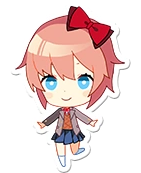
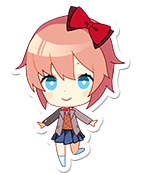
theme: take the sprites and the palette straight from ddlc.moe
The stickers in this repo are the site's own sticker_?.png. Three matched it
already; Yuri had been resampled down to 110x160 from 112x161, which is why she
read as the odd one out. All four are now the originals on the shared canvas.

Colours came from nowhere in particular before. The site's stylesheet and its
200x200 background tile give the whole set: white ground, #FFE5F4 dots at r=40,
#FFBDE1 divider, #BB5599 links and buttons with #DD77BB on hover, #222 text.
Only the two corruption colours stay invented — the site has no glitch state

diff --git a/README.ru.md b/README.ru.md
@@ -102,16 +102,18 @@ sudo ./install.sh
 | --- | --- | --- |
 | `font` | `Doki` | основной шрифт |
 | `iconFont` | `DepartureMono Nerd Font` | глифы кнопок питания |
-| `bgColor` | `#FFFCFE` | цвет фона |
-| `accentPink` / `deepPink` | `#FF80C0` / `#D667A0` | рамки и акценты |
-| `dotColor` | `#FFDCEE` | цвет кружочков |
+| `bgColor` | `#FFFFFF` | цвет фона |
+| `accentPink` / `deepPink` | `#DD77BB` / `#BB5599` | рамки и акценты |
+| `dotColor` | `#FFE5F4` | цвет кружочков |
 | `corruptDot` | `#FF1030` | цвет кружочков в пасхалке |
-| `dotSpacing` / `dotRadius` | `200` / `50` | шаг решётки и радиус кружка |
+| `dotSpacing` / `dotRadius` | `200` / `40` | шаг решётки и радиус кружка |
 | `scrollDuration` | `14000` | период дрейфа фона, мс |
-| `panelColor` / `panelBorder` | `#FFEBF4` / `#FFBDE1` | панель логина |
-| `okOutline` | `#BA5297` | обводка кнопки OK |
-| `textDark` / `errorRed` | `#4A2B3A` / `#D6244A` | текст и ошибки |
+| `panelColor` / `panelBorder` | `#FFFFFF` / `#FFBDE1` | панель логина |
+| `okOutline` | `#BB5599` | обводка кнопки OK |
+| `textDark` / `errorRed` | `#222222` / `#D6244A` | текст и ошибки |
 | `glitchRgbSplit` | `true` | выключить, если RGB-split глючит на конкретном железе |
+
+Всё, кроме двух цветов порчи, взято с [ddlc.moe](https://ddlc.moe/) — решётка кружков это фоновый тайл 200×200 с самого сайта, вплоть до радиуса
 
 На NixOS это задаётся опциями, а не правкой файла — модуль пересоберёт тему, подмешав их в `theme.conf`:
 

diff --git a/README.md b/README.md
@@ -102,16 +102,18 @@ Everything lives in the `[General]` block of `theme/theme.conf`, read from QML a
 | --- | --- | --- |
 | `font` | `Doki` | main font family |
 | `iconFont` | `DepartureMono Nerd Font` | glyphs on the power buttons |
-| `bgColor` | `#FFFCFE` | background |
-| `accentPink` / `deepPink` | `#FF80C0` / `#D667A0` | borders and accents |
-| `dotColor` | `#FFDCEE` | the dots |
+| `bgColor` | `#FFFFFF` | background |
+| `accentPink` / `deepPink` | `#DD77BB` / `#BB5599` | borders and accents |
+| `dotColor` | `#FFE5F4` | the dots |
 | `corruptDot` | `#FF1030` | the dots in easter-egg mode |
-| `dotSpacing` / `dotRadius` | `200` / `50` | grid step and dot radius |
+| `dotSpacing` / `dotRadius` | `200` / `40` | grid step and dot radius |
 | `scrollDuration` | `14000` | drift period of the background, ms |
-| `panelColor` / `panelBorder` | `#FFEBF4` / `#FFBDE1` | login panel |
-| `okOutline` | `#BA5297` | outline of the OK button |
-| `textDark` / `errorRed` | `#4A2B3A` / `#D6244A` | text and errors |
+| `panelColor` / `panelBorder` | `#FFFFFF` / `#FFBDE1` | login panel |
+| `okOutline` | `#BB5599` | outline of the OK button |
+| `textDark` / `errorRed` | `#222222` / `#D6244A` | text and errors |
 | `glitchRgbSplit` | `true` | turn off if RGB-split misbehaves on your hardware |
+
+Everything but the two corruption colours is lifted from [ddlc.moe](https://ddlc.moe/) — the dot grid is that site's own 200×200 background tile, down to the radius
 
 On NixOS, set them as options instead of editing the file — the module rebuilds the theme with them merged into `theme.conf`:
 

diff --git a/ASSETS.md b/ASSETS.md
@@ -10,7 +10,7 @@ The following are derived from or contain official DDLC assets:
 
 | Path | What |
 | --- | --- |
-| `theme/assets/*-sticker-*.png` | character sprites — Sayori, Monika, Natsuki, Yuri, in calm, excited, cut and distorted variants |
+| `theme/assets/*-sticker-*.png` | character sprites — Sayori, Monika, Natsuki, Yuri, in calm, excited, cut and distorted variants. The four calm ones are `sticker_?.png` from [ddlc.moe](https://ddlc.moe/) at native size, padded onto one canvas |
 | `theme/assets/just-monika-ok.png` | the in-game "Just Monika. OK" dialog, used by the easter egg |
 | `cursors/assets/sayori-head.png`, `sayori-head-glitch.png` | two frames cut from DDLC's own sprites, turned into an X cursor by `cursors/build-cursors.sh` |
 
